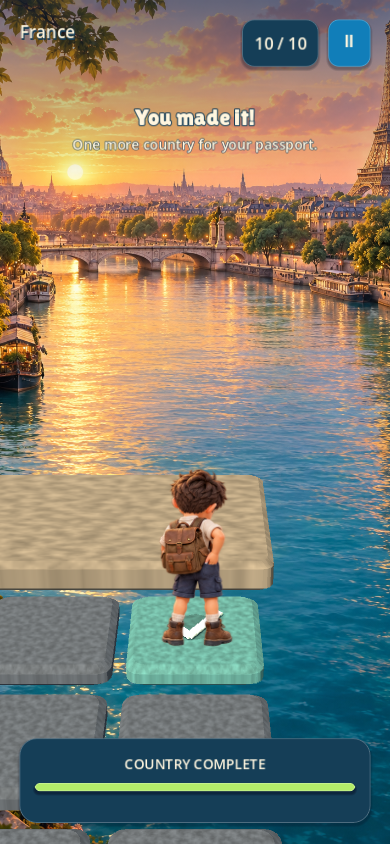
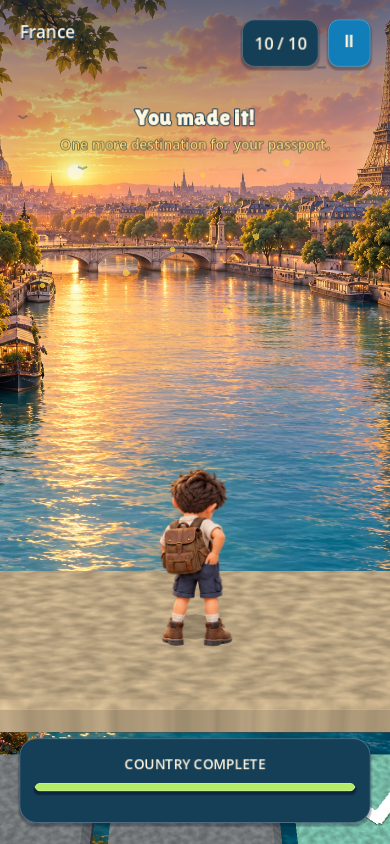
Land traveler on solid finish stone before celebration

diff --git a/spec.md b/spec.md
@@ -8,6 +8,10 @@ The user explicitly requests broad country coverage, superseding the five-countr
 
 250 free countries and territories, a separately purchased 24-destination Special Expeditions route (16 landmarks plus eight fantasy worlds), and an independently purchased eight-destination Cinema Worlds route. Total passport coverage: 282 destinations. Ranked Daily retains its immutable 197-country catalog. Special Expeditions includes Everest, Sahara, underwater, space, Moon and Mars. Cinema Worlds contains original scenes inspired by Lord of the Rings, Harry Potter, dinosaur adventures and Wonderland. Each pack uses its own one-time non-consumable Apple purchase; buying one never unlocks the other. Free country travel excludes paid places. Paid challenge codes require the relevant ownership. Every completed destination uses the same jump, celebration and passport-stamp mechanics.
 
+## Latest approved finish landing — 2026-10-02
+
+After clearing the final row of a finite path, the character jumps onto the solid finish stone before celebrating, taking out the passport and stamping the completed destination. Reduced Motion keeps the move to the finish without the jump arc. Completion scoring and timing stay unchanged.
+
 ## Latest approved pressure feedback — 2026-10-02
 
 While deciding, the stone underneath the player develops progressive surface fissures in proportion to the ten-second decision clock. At expiry, every stone in the occupied row cracks and falls together, taking the character with it. Before the first jump, the full starting platform is the occupied surface and collapses on timeout. Successful landing resets crack growth on the new stone. Preview, jumping, pause, travel and completion freeze the decision clock; legacy untimed rules remain untimed. Wrong-tile failures retain their single-stone collapse. Reduced Motion shows the cracks and hides the collapsed row without shaking/dropping movement. Score/replay rules are unchanged.

diff --git a/HANDOFF.md b/HANDOFF.md
@@ -1,5 +1,7 @@
 # Passport Run — agent handoff (2026-10-02)
 
+Latest continuation: finite-path completion now moves the traveler onto `TestEnvironment.finish_position`, centered on the solid finish platform, before celebration and passport stamping. The existing completion hop is reused, preserving completion timing/scoring and pause behavior. Reduced Motion moves without a vertical arc. Nine Godot suites and three Python tests passed; rendered animation/timer checks passed 53 assertions and real local backend integration passed 19. Native export and signed build passed at `/private/tmp/passport-native-finish/PassportRun.xcodeproj`. Captures `artifacts/27-passport-pocket.png` and `28-passport-stamped.png` show the finish landing. Physical-device acceptance remains pending.
+
 Read `spec.md`, this file, [build status](docs/build-status.md), and [iPhone validation](docs/iphone-validation.md). The user authorized continued implementation: **“dont stop and finish as much as you can do without needing me.”** Continue feasible local work; do not reimpose the original M0–M2 boundary. Do not publish or claim production/device validation without evidence.
 
 ## Current state

diff --git a/docs/build-status.md b/docs/build-status.md
@@ -1,5 +1,7 @@
 # Build status — 2026-10-02
 
+Latest finish pass: the character reaches the solid finish platform before celebration and passport stamping. Nine Godot suites, three Python tests, 53 rendered animation/timer checks, 19 real local-backend checks and the signed iPhone build passed. Finite completion timing and scoring are unchanged.
+
 The game with 250 free destinations and 32 separately purchased locations is a playable prototype. Online competition now works against a real local Convex instance; no hosted service or commercial release is claimed. [HANDOFF.md](../HANDOFF.md) contains continuation instructions.
 
 | Milestone | Implemented | Remaining acceptance/work |

diff --git a/docs/iphone-validation.md b/docs/iphone-validation.md
@@ -1,5 +1,7 @@
 # iPhone validation — 2026-10-02
 
+Latest signed build: `/private/tmp/passport-native-finish/PassportRun.xcodeproj`, with the character landing on the solid finish stone before stamping. Godot export and Xcode development-signed build succeeded. Desktop rendered verification passed; physical-phone installation, launch and performance remain pending.
+
 ## Native evidence
 
 Godot 4.5.2 standard and its matching iOS template are installed. Xcode detects a paired iPhone15,2. The existing Apple development certificate's OU confirmed Team ID `BA24C6W48D`. The development bundle is `com.serhansari.passportrun`; no private credentials are committed.
